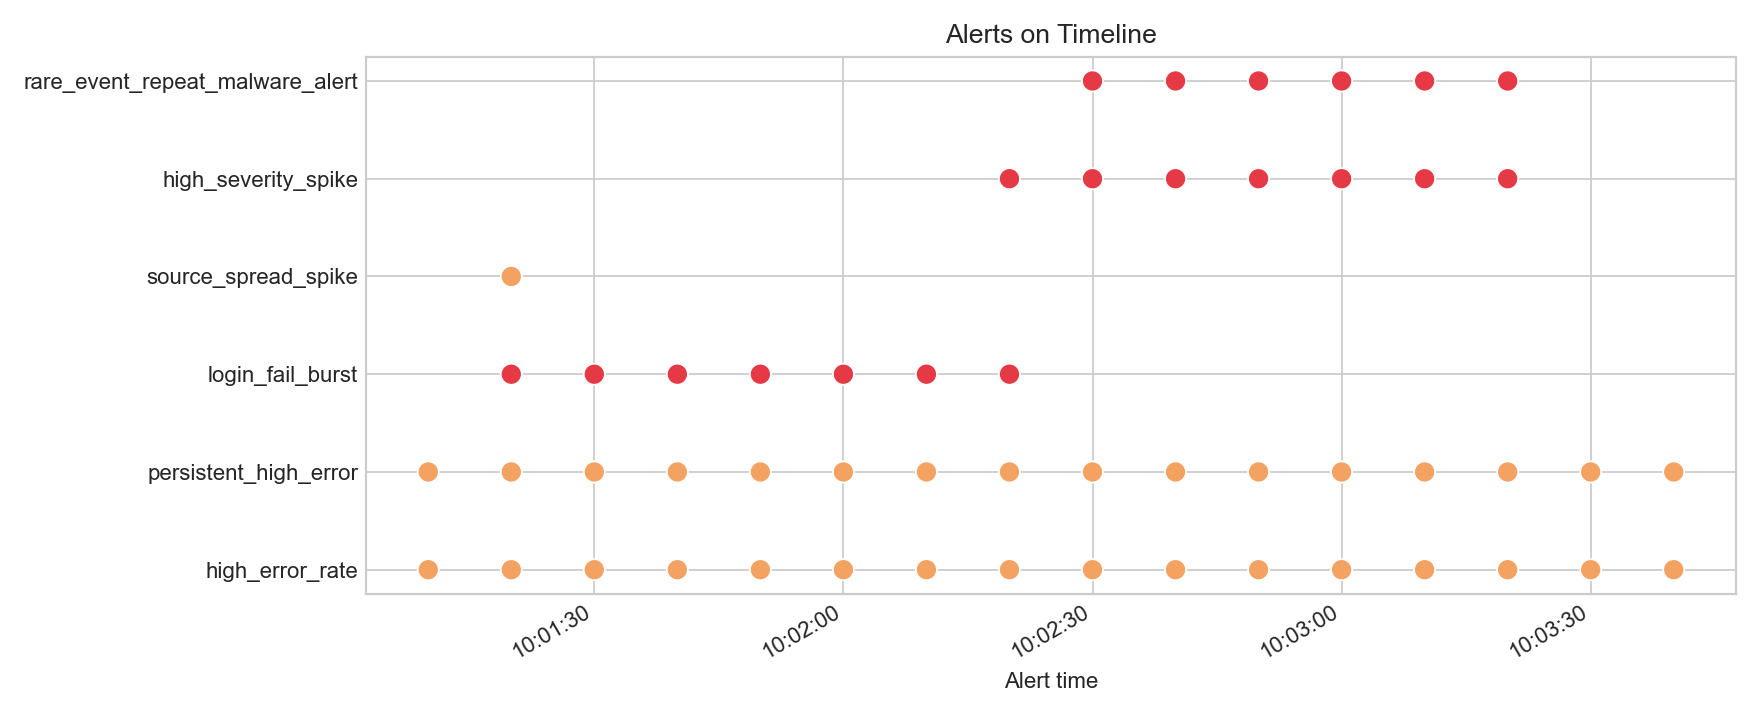
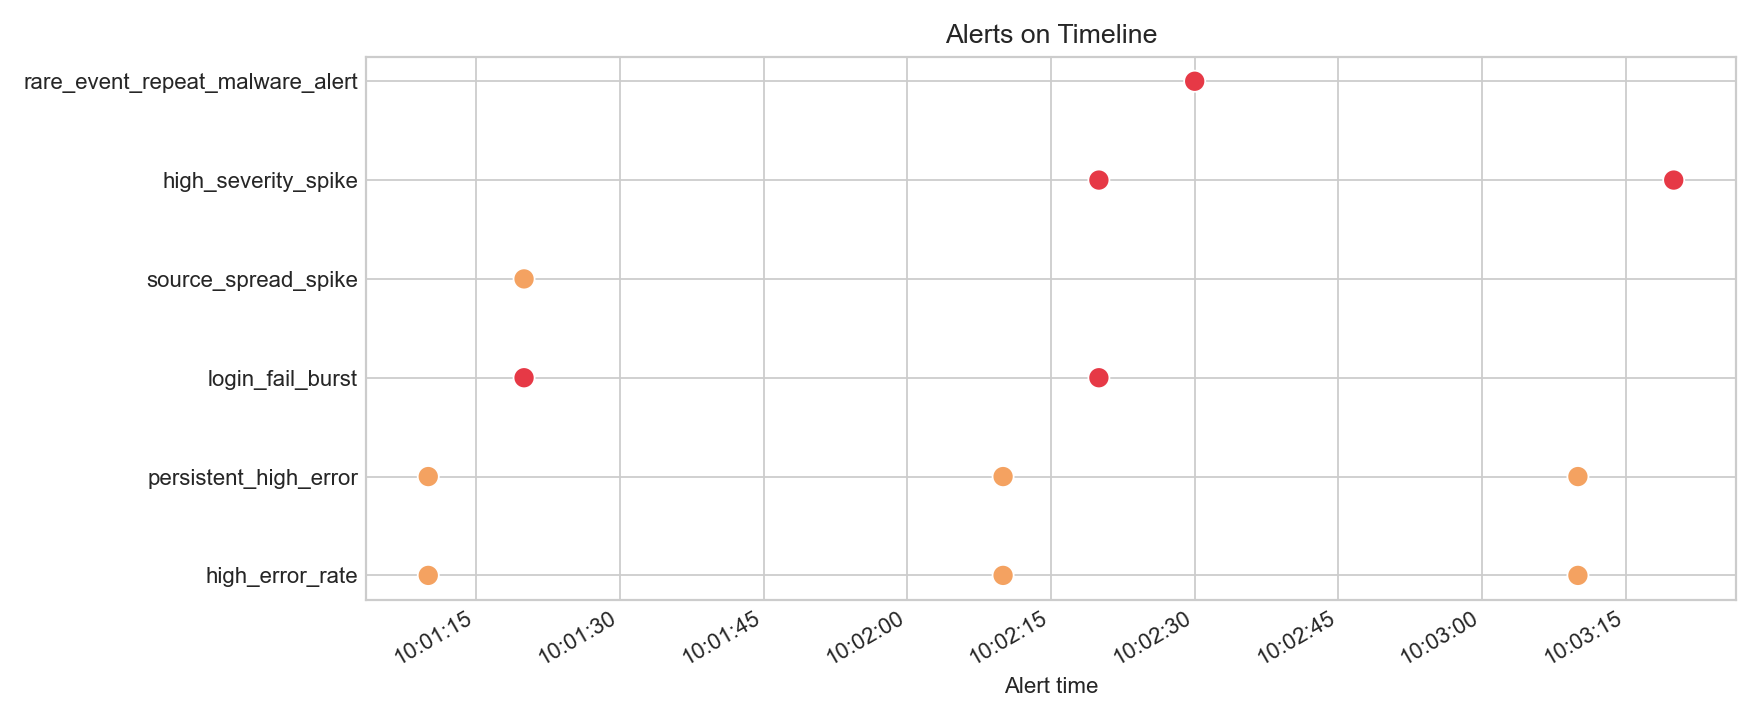
reduce noisy repeated alerts with cooldown (#9)

diff --git a/tests/test_rules.py b/tests/test_rules.py
@@ -76,3 +76,117 @@ def test_apply_rules_triggers_expected_alerts() -> None:
     assert "source_spread_spike" in set(alerts["rule_name"])
     assert "rare_event_repeat_malware_alert" in set(alerts["rule_name"])
 
+
+def test_apply_rules_suppresses_repeated_same_rule_within_cooldown() -> None:
+    features = pd.DataFrame(
+        [
+            {
+                "window_start": pd.Timestamp("2026-03-10T10:00:00Z"),
+                "window_end": pd.Timestamp("2026-03-10T10:01:00Z"),
+                "event_count": 10,
+                "error_count": 4,
+                "error_rate": 0.40,
+                "unique_sources": 4,
+                "unique_targets": 2,
+                "high_severity_count": 0,
+                "login_fail_count": 0,
+                "malware_alert_count": 0,
+            },
+            {
+                "window_start": pd.Timestamp("2026-03-10T10:00:10Z"),
+                "window_end": pd.Timestamp("2026-03-10T10:01:10Z"),
+                "event_count": 11,
+                "error_count": 5,
+                "error_rate": 0.45,
+                "unique_sources": 5,
+                "unique_targets": 2,
+                "high_severity_count": 0,
+                "login_fail_count": 0,
+                "malware_alert_count": 0,
+            },
+            {
+                "window_start": pd.Timestamp("2026-03-10T10:01:00Z"),
+                "window_end": pd.Timestamp("2026-03-10T10:02:00Z"),
+                "event_count": 12,
+                "error_count": 6,
+                "error_rate": 0.50,
+                "unique_sources": 6,
+                "unique_targets": 2,
+                "high_severity_count": 0,
+                "login_fail_count": 0,
+                "malware_alert_count": 0,
+            },
+        ]
+    )
+
+    alerts = apply_rules(
+        features,
+        {
+            "cooldown_seconds": 60,
+            "high_error_rate": {"threshold": 0.30, "severity": "medium"},
+            "persistent_high_error": {
+                "threshold": 1.0,
+                "consecutive_windows": 10,
+                "severity": "medium",
+            },
+        },
+    )
+
+    assert list(alerts["rule_name"]) == ["high_error_rate", "high_error_rate"]
+    assert list(alerts["alert_time"]) == [
+        pd.Timestamp("2026-03-10T10:01:00Z"),
+        pd.Timestamp("2026-03-10T10:02:00Z"),
+    ]
+
+
+def test_apply_rules_keeps_different_rules_during_same_cooldown_window() -> None:
+    features = pd.DataFrame(
+        [
+            {
+                "window_start": pd.Timestamp("2026-03-10T10:00:00Z"),
+                "window_end": pd.Timestamp("2026-03-10T10:01:00Z"),
+                "event_count": 12,
+                "error_count": 5,
+                "error_rate": 0.42,
+                "unique_sources": 4,
+                "unique_targets": 2,
+                "high_severity_count": 4,
+                "login_fail_count": 8,
+                "malware_alert_count": 0,
+            },
+            {
+                "window_start": pd.Timestamp("2026-03-10T10:00:10Z"),
+                "window_end": pd.Timestamp("2026-03-10T10:01:10Z"),
+                "event_count": 14,
+                "error_count": 6,
+                "error_rate": 0.43,
+                "unique_sources": 5,
+                "unique_targets": 2,
+                "high_severity_count": 5,
+                "login_fail_count": 9,
+                "malware_alert_count": 0,
+            },
+        ]
+    )
+
+    alerts = apply_rules(
+        features,
+        {
+            "cooldown_seconds": 60,
+            "high_error_rate": {"threshold": 0.30, "severity": "medium"},
+            "login_fail_burst": {"threshold": 8, "severity": "high"},
+            "high_severity_spike": {"threshold": 3, "severity": "high"},
+            "persistent_high_error": {
+                "threshold": 1.0,
+                "consecutive_windows": 10,
+                "severity": "medium",
+            },
+        },
+    )
+
+    assert list(alerts["rule_name"]) == [
+        "high_error_rate",
+        "high_severity_spike",
+        "login_fail_burst",
+    ]
+

diff --git a/src/telemetry_window_demo/rules.py b/src/telemetry_window_demo/rules.py
@@ -24,6 +24,7 @@ def apply_rules(
         return pd.DataFrame(columns=ALERT_COLUMNS)
 
     config = rules_config or {}
+    cooldown_seconds = int(config.get("cooldown_seconds", 0))
     alerts: list[dict[str, object]] = []
 
     alerts.extend(_high_error_rate_alerts(features, config.get("high_error_rate", {})))
@@ -46,7 +47,8 @@ def apply_rules(
         return pd.DataFrame(columns=ALERT_COLUMNS)
 
     alerts_frame = pd.DataFrame(alerts, columns=ALERT_COLUMNS)
-    return alerts_frame.sort_values(["alert_time", "rule_name"]).reset_index(drop=True)
+    alerts_frame = alerts_frame.sort_values(["alert_time", "rule_name"]).reset_index(drop=True)
+    return _apply_alert_cooldown(alerts_frame, cooldown_seconds)
 
 
 def _row_alert(
@@ -63,6 +65,34 @@ def _row_alert(
         "window_end": row["window_end"],
         "message": message,
     }
+
+
+def _apply_alert_cooldown(
+    alerts: pd.DataFrame,
+    cooldown_seconds: int,
+) -> pd.DataFrame:
+    if alerts.empty or cooldown_seconds <= 0:
+        return alerts.reset_index(drop=True)
+
+    last_kept_at: dict[str, pd.Timestamp] = {}
+    kept_rows: list[int] = []
+
+    for index, row in alerts.iterrows():
+        rule_name = str(row["rule_name"])
+        alert_time = pd.Timestamp(row["alert_time"])
+        last_alert_time = last_kept_at.get(rule_name)
+
+        if last_alert_time is None:
+            kept_rows.append(index)
+            last_kept_at[rule_name] = alert_time
+            continue
+
+        elapsed = (alert_time - last_alert_time).total_seconds()
+        if elapsed >= cooldown_seconds:
+            kept_rows.append(index)
+            last_kept_at[rule_name] = alert_time
+
+    return alerts.loc[kept_rows, ALERT_COLUMNS].reset_index(drop=True)
 
 
 def _high_error_rate_alerts(

diff --git a/tests/test_pipeline_e2e.py b/tests/test_pipeline_e2e.py
@@ -34,7 +34,7 @@ def test_default_pipeline_reproduces_sample_outputs(tmp_path, capsys) -> None:
     expected_alerts = load_alert_table(expected_output_dir / "alerts.csv")
 
     assert len(generated_features) == 24
-    assert len(generated_alerts) == 53
+    assert len(generated_alerts) == 12
     pd.testing.assert_frame_equal(generated_features, expected_features)
     pd.testing.assert_frame_equal(generated_alerts, expected_alerts)
 
@@ -47,4 +47,4 @@ def test_default_pipeline_reproduces_sample_outputs(tmp_path, capsys) -> None:
 
     stdout = capsys.readouterr().out
     assert "[OK] Loaded 41 events" in stdout
-    assert "[OK] Triggered 53 alerts" in stdout
+    assert "[OK] Triggered 12 alerts" in stdout

diff --git a/README.md b/README.md
@@ -47,7 +47,9 @@ With the bundled sample data, the default run currently produces:
 
 - `41` normalized events
 - `24` windows
-- `53` alerts
+- `12` alerts after applying a `60` second per-rule cooldown
+
+The default config suppresses repeated alerts with the same `rule_name` until `60` seconds have elapsed since that rule's last emitted alert. Different rules can still alert on the same window.
 
 ## Outputs
 
